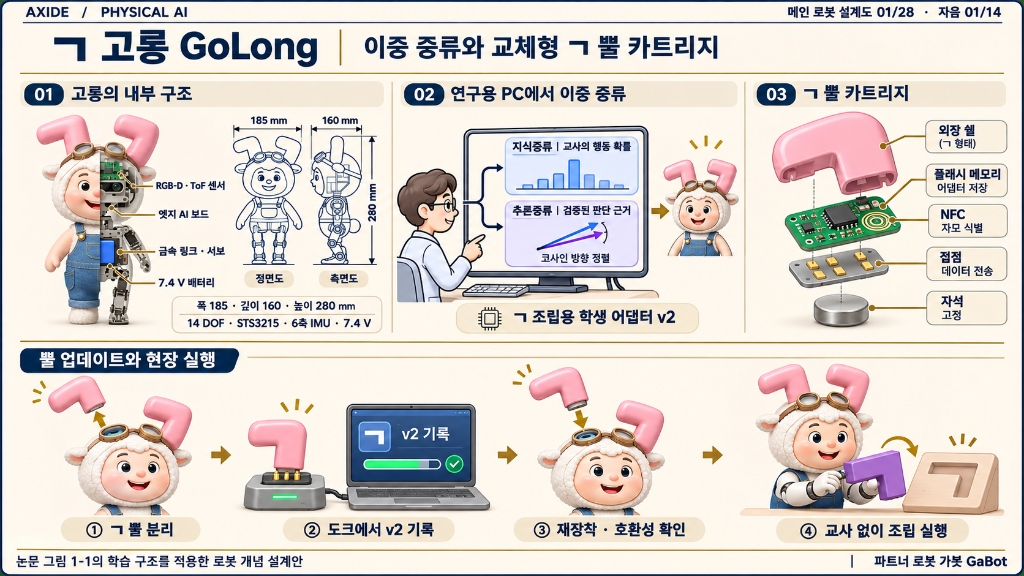
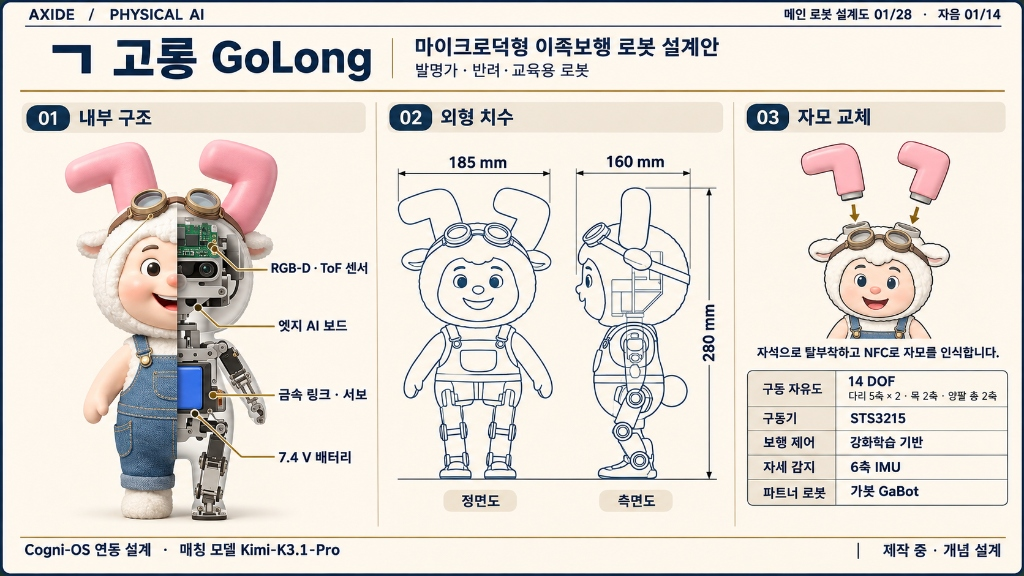
Display both GoLong main robot blueprint boards (MicroDuck design & Dual-Distillation horn cartridge) in story.html

diff --git a/story.html b/story.html
@@ -911,13 +911,17 @@
                                     <button type="button" id="somooMainCharBpUnderModalBtn" onclick="openSomooCharacterModal(0)" class="btn btn-sm rounded-pill px-3 py-1 fw-bold" style="background: rgba(251, 191, 36, 0.18); color: #fde68a; border: 1px solid rgba(251, 191, 36, 0.5); font-size: 11.5px;">
                                         ⚙ ‘ㄱ 고롱’ 캐릭터 상세 도감 열기
                                     </button>
-                                    <button type="button" id="somooMainCharBpUnderZoomBtn" onclick="openStoryLightbox('assets/images/somoo-blueprint/bp_01.jpg?v=20261118_mainbp_v7', '한글 소모오 피지컬 AI — 01/28 ‘ㄱ 고롱(GoLong) · 발명가’ 마이크로덕형 14-DOF 메인 로봇 설계도', false)" class="btn btn-sm rounded-pill px-3 py-1 fw-bold" style="background: rgba(45, 212, 191, 0.2); color: #99f6e4; border: 1px solid rgba(45, 212, 191, 0.55); font-size: 11.5px;">
+                                    <button type="button" id="somooMainCharBpUnderZoomBtn" onclick="openStoryLightbox('assets/images/somoo-blueprint/bp_01.jpg?v=20261118_mainbp_v8', '한글 소모오 피지컬 AI — 01/28 ‘ㄱ 고롱(GoLong) · 발명가’ 마이크로덕형 14-DOF 메인 로봇 설계도', false)" class="btn btn-sm rounded-pill px-3 py-1 fw-bold" style="background: rgba(45, 212, 191, 0.2); color: #99f6e4; border: 1px solid rgba(45, 212, 191, 0.55); font-size: 11.5px;">
                                         🔍 메인 로봇 설계도 크게 확대
                                     </button>
                                 </div>
                             </div>
                             <div class="position-relative rounded-3 overflow-hidden" style="border: 1px solid rgba(251, 191, 36, 0.4); background: #0b162c; cursor: zoom-in;" onclick="if(typeof openCurrentMainSomooBpLightbox==='function') openCurrentMainSomooBpLightbox();">
-                                <img id="somooMainCharBpUnderImg" src="assets/images/somoo-blueprint/bp_01.jpg?v=20261118_mainbp_v7" alt="한글 소모오 피지컬 AI — 01/28 ‘ㄱ 고롱(GoLong) · 발명가’ 마이크로덕형 14-DOF 메인 로봇 설계도" style="width: 100%; height: auto; display: block;" decoding="async">
+                                <img id="somooMainCharBpUnderImg" src="assets/images/somoo-blueprint/bp_01.jpg?v=20261118_mainbp_v8" alt="AXIDE / PHYSICAL AI — 01/28 ‘ㄱ 고롱(GoLong)’ 마이크로덕형 이족보행 로봇 설계안 (01 내부 구조 · 02 외형 치수 · 03 자모 교체)" style="width: 100%; height: auto; display: block;" decoding="async">
+                            </div>
+                            <!-- Companion Board for 01/28 GoLong: 이중 증류와 교체형 ㄱ 뿔 카트리지 -->
+                            <div id="somooGolongDistillWrap" class="mt-3 position-relative rounded-3 overflow-hidden" style="border: 1px solid rgba(56, 189, 248, 0.45); background: #0b162c; cursor: zoom-in;" onclick="openStoryLightbox('assets/images/somoo-blueprint/bp_01_distillation.jpg?v=20261118_mainbp_v8', 'AXIDE / PHYSICAL AI — 01/28 ‘ㄱ 고롱(GoLong)’ 이중 증류와 교체형 ㄱ 뿔 카트리지 (01 고롱의 내부 구조 · 02 연구용 PC에서 이중 증류 · 03 ㄱ 뿔 카트리지 · 뿔 업데이트와 현장 실행)', false)">
+                                <img src="assets/images/somoo-blueprint/bp_01_distillation.jpg?v=20261118_mainbp_v8" alt="AXIDE / PHYSICAL AI — 01/28 ‘ㄱ 고롱(GoLong)’ 이중 증류와 교체형 ㄱ 뿔 카트리지 (논문 그림 1-1의 학습 구조를 적용한 로봇 개념 설계안)" style="width: 100%; height: auto; display: block;" decoding="async" loading="lazy">
                             </div>
                         </div>
 
@@ -3722,7 +3726,7 @@
                     pages: 'p.3–8', repImg: 'rep_01.jpg?v=20261118_v2',
                     images: [
                         { file: 'rep_01.jpg?v=20261118_v2', title: '대표 3D 캐릭터 포트레이트 (고롱)' },
-                        { file: 'assets/images/story/story-somoo-golong-microduck-blueprint.jpg?v=20261118_mainbp_v7', title: '피지컬 AI 반려·교육용 로봇 — ‘ㄱ 고롱’ 마이크로덕(MicroDuck)형 이족보행 샘플 설계도' },
+                        { file: 'assets/images/story/story-somoo-golong-microduck-blueprint.jpg?v=20261118_mainbp_v8', title: '피지컬 AI 반려·교육용 로봇 — ‘ㄱ 고롱’ 마이크로덕(MicroDuck)형 이족보행 샘플 설계도' },
                         { file: 'Im5.jpg', title: '4방향 3D 턴어라운드 시트 A (Front · Back · Right · Left)' },
                         { file: 'Im6.jpg', title: '4방향 3D 턴어라운드 시트 B (디테일 뷰)' },
                         { file: 'Im7.jpg', title: '3D 스토리 월드 씬 — 고롱의 태엽 발명 공방' },
@@ -4179,7 +4183,7 @@
             }
             // Main Somoo Character MicroDuck 14-DOF Robot Blueprint (ㄱ 고롱 ~ ㅖ 예롱, 3-panel Cutaway X-Ray CAD)
             function getCharacterBlueprintUrl(idx) {
-                return 'assets/images/somoo-blueprint/bp_' + pad2(idx + 1) + '.jpg?v=20261118_mainbp_v7';
+                return 'assets/images/somoo-blueprint/bp_' + pad2(idx + 1) + '.jpg?v=20261118_mainbp_v8';
             }
             // Hangul Jamo Bipedal Partner Robot Archive Board (ㄱ 가봇 ~ ㅖ 예봇)
             function getJamoPartnerRobotUrl(idx) {
@@ -4244,6 +4248,10 @@
                 moduHotspots.forEach(function(el) {
                     el.style.display = (idx === 4) ? 'block' : 'none';
                 });
+                var golongDistillEl = document.getElementById('somooGolongDistillWrap');
+                if (golongDistillEl) {
+                    golongDistillEl.style.display = (idx === 0) ? 'block' : 'none';
+                }
             };
 
             window.stepSomooBlueprintShowcase = function(delta) {
@@ -4482,6 +4490,20 @@
                             isRep: false
                         });
                     }
+                }
+                if (idx === 0) {
+                    allImages.push({
+                        file: bpUrl,
+                        title: 'ㄱ 고롱 GoLong — 마이크로덕형 이족보행 로봇 설계안 (01 내부 구조 · 02 외형 치수 · 03 자모 교체)',
+                        shortLabel: '마이크로덕형 로봇 설계안',
+                        isRep: false
+                    });
+                    allImages.push({
+                        file: 'assets/images/somoo-blueprint/bp_01_distillation.jpg?v=20261118_mainbp_v8',
+                        title: 'ㄱ 고롱 GoLong — 이중 증류와 교체형 ㄱ 뿔 카트리지 (논문 그림 1-1의 학습 구조를 적용한 로봇 개념 설계안)',
+                        shortLabel: '이중 증류 · ㄱ 뿔 카트리지',
+                        isRep: false
+                    });
                 }
                 var moduSheetUrl = 'assets/images/somoo-jamo-robot/modu_startup_robot_sheet.jpg?v=20261107_modu_v3';
                 var moduSheetTitle = '‘모두의 창업’ 스페셜 로봇 상세 도감 — 90° 정밀 옆모습 · 다양한 액션 포즈 · CRT 모니터 웃는 표정 & MicroDuck 절반 해부도';
